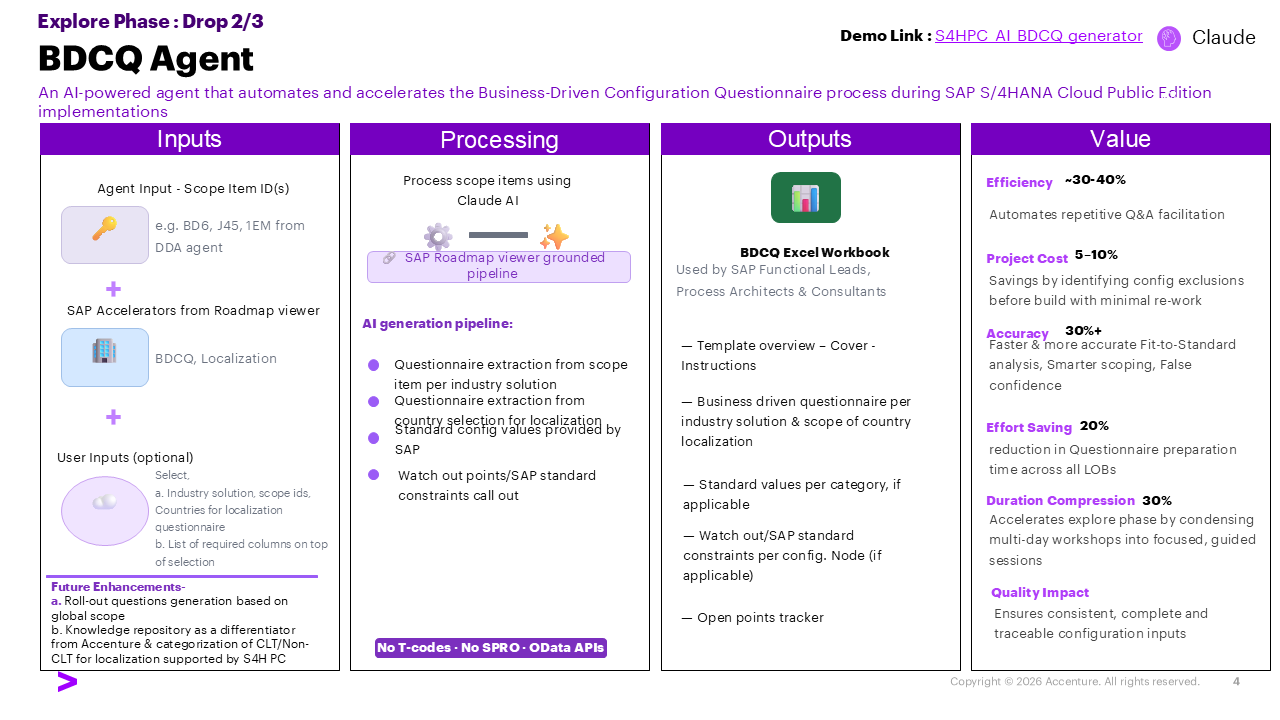
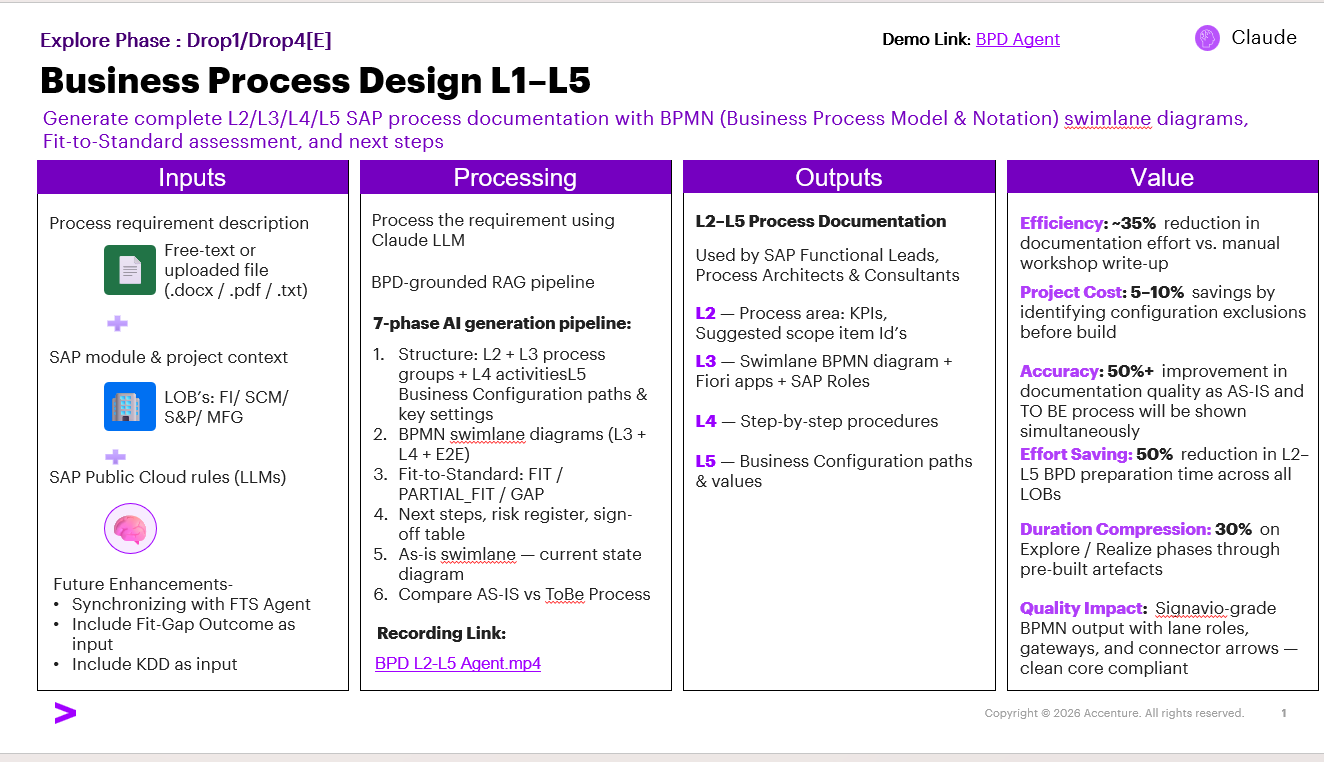
Updates

diff --git a/GrowActivAIte_Agent_FAQ.html b/GrowActivAIte_Agent_FAQ.html
@@ -420,9 +420,6 @@
     <a class="toc-link" href="#agent-08">
       <span class="toc-num">8</span>Functional Design Document Phase 1
     </a>
-    <a class="toc-link" href="#agent-09">
-      <span class="toc-num">9</span>KDD &amp; BDCQ User Guide – Explore Phase Accelerator
-    </a>
     <a class="toc-link" href="#agent-10">
       <span class="toc-num">10</span>Functional Design Document – Phase 2 (Form FD Generator)
     </a>
@@ -1582,379 +1579,6 @@
   </div><!-- /#agent-08 -->
 
   <!-- AGENT 9: KDD & BDCQ USER GUIDE -->
-  <div class="agent-card" id="agent-09" style="margin-top:24px; border-radius:12px;">
-    <div class="agent-header">
-      <div class="agent-icon">🔍</div>
-      <div class="agent-header-text">
-        <div class="agent-number">Agent 09</div>
-        <div class="agent-name">KDD &amp; BDCQ User Guide – SAP S/4HANA Cloud PE Explore Phase Accelerator</div>
-        <div class="agent-tags">
-          <span class="tag tag-phase">Explore</span>
-          <span class="tag tag-type">KDD Generation</span>
-          <span class="tag tag-group">Solution Confirmation Agent</span>
-        </div>
-      </div>
-    </div>
-    <div class="agent-body">
-      <div class="faq-list">
-
-        <p style="margin:16px 0 8px; font-weight:700; font-size:0.8rem; color:#4F46E5; text-transform:uppercase; letter-spacing:0.07em; border-bottom:1px solid #E0E7FF; padding-bottom:4px;">Getting Started</p>
-
-        <details open>
-          <summary><span class="q-label">Q1</span>Do I need to pay for anything?</summary>
-          <div class="answer">
-            <p>You need a <strong>Claude subscription</strong> (claude.ai — any paid plan). The tool uses your existing subscription with no extra charges per use and no API key required. Node.js is free. The tool itself is free.</p>
-          </div>
-        </details>
-
-        <details>
-          <summary><span class="q-label">Q2</span>What exactly do I need to install before I can use this?</summary>
-          <div class="answer">
-            <p>Three things, in this order:</p>
-            <ol>
-              <li><strong>Node.js</strong> (LTS) — from nodejs.org. One-time install.</li>
-              <li><strong>Claude CLI</strong> — from claude.ai/code. One-time install. Sign in once when prompted.</li>
-              <li><strong>The tool itself</strong> — unzip, run <code>SETUP.bat</code> once, then <code>START.bat</code> every time you use it.</li>
-              <li><strong>SAP Deck Agent Chrome extension</strong> — only needed to download SAP data files. Load it once in Chrome.</li>
-            </ol>
-          </div>
-        </details>
-
-        <details>
-          <summary><span class="q-label">Q3</span>How do I verify everything is installed correctly?</summary>
-          <div class="answer">
-            <p>Open a new terminal and run these two commands:</p>
-            <p><code>node --version</code> → should return something like <code>v20.x.x</code></p>
-            <p><code>claude --version</code> → should return something like <code>2.x.x (Claude Code)</code></p>
-            <p>If both work, run <code>START.bat</code> and open <code>http://localhost:8321</code> in your browser.</p>
-          </div>
-        </details>
-
-        <details>
-          <summary><span class="q-label">Q4</span>Can I install this on my Accenture laptop?</summary>
-          <div class="answer">
-            <p>Yes. It runs entirely locally, installs nothing to the Windows registry, and doesn't require admin rights beyond the initial Node.js and Claude CLI installers. If IT restrictions block those installers, ask your project lead to raise a request.</p>
-          </div>
-        </details>
-
-        <details>
-          <summary><span class="q-label">Q5</span>Do I need to run SETUP.bat every time?</summary>
-          <div class="answer">
-            <p>No — only once after first unzip, and once again after any update. <code>SETUP.bat</code> installs the app's libraries. After that, just use <code>START.bat</code>.</p>
-          </div>
-        </details>
-
-        <details>
-          <summary><span class="q-label">Q6</span>Can multiple people on the project use this?</summary>
-          <div class="answer">
-            <p>Currently each person installs and runs their own copy locally. The tool is designed for one user per machine. A shared hosted version is on the roadmap.</p>
-          </div>
-        </details>
-
-        <p style="margin:20px 0 8px; font-weight:700; font-size:0.8rem; color:#4F46E5; text-transform:uppercase; letter-spacing:0.07em; border-bottom:1px solid #E0E7FF; padding-bottom:4px;">Chrome Extension (SAP Deck Agent)</p>
-
-        <details>
-          <summary><span class="q-label">Q7</span>Which browser does the Chrome extension work in?</summary>
-          <div class="answer">
-            <p>Chrome only. The web app itself at <code>localhost:8321</code> works in any modern browser, but the SAP Deck Agent extension that downloads SAP data files requires Chrome.</p>
-          </div>
-        </details>
-
-        <details>
-          <summary><span class="q-label">Q8</span>The extension opened an SAP login tab and the file wasn't saved.</summary>
-          <div class="answer">
-            <p>This is an SAP SSO session refresh. The current version handles this automatically — it waits for the login tab to close, then retries the download. If it still stalls after the tab closes: confirm you are logged into SAP, then click the save button again. Do not close the extension popup while waiting.</p>
-          </div>
-        </details>
-
-        <details>
-          <summary><span class="q-label">Q9</span>I clicked Save and the folder picker appeared, but the file still didn't save.</summary>
-          <div class="answer">
-            <p>Make sure you selected the <strong>tool folder</strong> (the one containing <code>server.js</code> and <code>START.bat</code>) when the folder picker opened. The extension writes directly into that folder. If you selected the wrong folder, click save again and pick the correct one.</p>
-          </div>
-        </details>
-
-        <details>
-          <summary><span class="q-label">Q10</span>The extension says "Folder access expired."</summary>
-          <div class="answer">
-            <p>Browser permissions for folder access time out between sessions. Click the save button again — the extension will re-open the folder picker. This is normal browser security behaviour.</p>
-          </div>
-        </details>
-
-        <details>
-          <summary><span class="q-label">Q11</span>The extension scanned the page but found no files.</summary>
-          <div class="answer">
-            <p>Three things to check:</p>
-            <ol>
-              <li>You are on the correct SAP page — Roadmap Viewer for BDCQ, Process Navigator for scope catalog.</li>
-              <li><strong>Developer mode</strong> is turned on in <code>chrome://extensions</code>.</li>
-              <li>The file list is visible and fully loaded on screen — scroll down so items render, then click <strong>Scan Again</strong>.</li>
-            </ol>
-          </div>
-        </details>
-
-        <details>
-          <summary><span class="q-label">Q12</span>How often do I need to re-download SAP data?</summary>
-          <div class="answer">
-            <p><strong>BDCQ questions:</strong> once per project — they don't change between sessions.</p>
-            <p><strong>Scope catalog:</strong> every 6 months, when SAP releases a new version (February and August). The app will warn you if your catalog is outdated.</p>
-          </div>
-        </details>
-
-        <p style="margin:20px 0 8px; font-weight:700; font-size:0.8rem; color:#4F46E5; text-transform:uppercase; letter-spacing:0.07em; border-bottom:1px solid #E0E7FF; padding-bottom:4px;">BDCQ Enrichment</p>
-
-        <details>
-          <summary><span class="q-label">Q13</span>What does "enrichment" actually add to the BDCQ questions?</summary>
-          <div class="answer">
-            <p>Three lenses applied to every question:</p>
-            <ul>
-              <li><strong>Country localisation</strong> — flags statutory/mandatory items for the client's country (tax, payroll, banking regulations). Mandatory items come pre-answered.</li>
-              <li><strong>Industry context</strong> — adds sub-questions and considerations specific to the client's sector (Manufacturing, Retail, Pharma etc.).</li>
-              <li><strong>Cloud PE constraints</strong> — highlights where standard SAP configuration is fixed and where BTP extensions are the only path.</li>
-            </ul>
-          </div>
-        </details>
-
-        <details>
-          <summary><span class="q-label">Q14</span>Can I enrich just some domains, not all of them?</summary>
-          <div class="answer">
-            <p>Yes. On the BDCQ screen you can select specific domains before enriching. You don't have to process the entire questionnaire at once.</p>
-          </div>
-        </details>
-
-        <details>
-          <summary><span class="q-label">Q15</span>What do the "mandatory" flags mean in the output?</summary>
-          <div class="answer">
-            <p>A question marked mandatory has a statutory requirement in the client's country that must be answered in a specific way — for example India GST e-invoicing or Germany XRechnung compliance. These are pre-answered based on localisation rules so you don't have to research them during the workshop.</p>
-          </div>
-        </details>
-
-        <details>
-          <summary><span class="q-label">Q16</span>Can I run BDCQ enrichment for multiple countries on one project?</summary>
-          <div class="answer">
-            <p>Yes. Select all relevant countries before generating — the enrichment runs in one pass and adds country-specific rows (tagged "Local – India", "Local – Germany" etc.) for each selected country. Useful for rollout projects covering multiple regions.</p>
-          </div>
-        </details>
-
-        <p style="margin:20px 0 8px; font-weight:700; font-size:0.8rem; color:#4F46E5; text-transform:uppercase; letter-spacing:0.07em; border-bottom:1px solid #E0E7FF; padding-bottom:4px;">KDD Generation</p>
-
-        <details>
-          <summary><span class="q-label">Q17</span>How long does KDD generation take?</summary>
-          <div class="answer">
-            <p>Roughly <strong>60–105 seconds per scope item</strong> in AI mode. Up to 3 scope items run in parallel, so larger sets don't scale linearly. Cache hits (scope items generated before) complete in <strong>under 5 seconds</strong> with no AI call at all. You can monitor live progress in the status panel.</p>
-          </div>
-        </details>
-
-        <details>
-          <summary><span class="q-label">Q18</span>What is the difference between Fast mode and AI mode?</summary>
-          <div class="answer">
-            <p><strong>Fast mode</strong> — returns cached results instantly. No Claude call is made, no tokens used. Use this when you have already generated for these scope items and want the Excel quickly.</p>
-            <p><strong>AI mode</strong> — runs the full 5-agent pipeline (Cache → Library → Context → Generation → Validation). Use this for first-time generation or when you want fresh, up-to-date output.</p>
-          </div>
-        </details>
-
-        <details>
-          <summary><span class="q-label">Q19</span>How many scope items should I do in one run?</summary>
-          <div class="answer">
-            <p>5–10 is comfortable. You can do more, but very large sets (20+) take longer and are harder to review in one sitting. Run scope items in batches and combine the outputs in the KDD editor.</p>
-          </div>
-        </details>
-
-        <details>
-          <summary><span class="q-label">Q20</span>Generation finished but I got 0 KDDs for one scope item.</summary>
-          <div class="answer">
-            <p>Claude's output failed the validation check twice (the tool retries automatically once). Most common causes are an unusually short process description in the catalog or a timeout. Use the <strong>Retry</strong> button on that item in the KDD editor to regenerate it individually.</p>
-          </div>
-        </details>
-
-        <details>
-          <summary><span class="q-label">Q21</span>Can I stop a generation halfway through?</summary>
-          <div class="answer">
-            <p>Closing the browser tab stops the display, but the server continues generating in the background. To cancel completely, close the <code>START.bat</code> console window. Partially completed items are cached — restarting and generating again will only re-run the incomplete ones.</p>
-          </div>
-        </details>
-
-        <details>
-          <summary><span class="q-label">Q22</span>Can I regenerate just one question without redoing everything?</summary>
-          <div class="answer">
-            <p>Yes. In the KDD editor, click the <strong>retry icon</strong> on any individual row to regenerate that specific question. The rest of the log is untouched.</p>
-          </div>
-        </details>
-
-        <details>
-          <summary><span class="q-label">Q23</span>The tool keeps generating on-premise terms like ABAP or SAP GUI.</summary>
-          <div class="answer">
-            <p>This shouldn't happen — the Validation Agent automatically catches and replaces 25 forbidden on-premise terms. If you do see them in output, use the <strong>AI Suggest</strong> feature on that row for a Cloud PE-compliant replacement, or edit manually. If this happens frequently, let the tool owner know — the validation rules may need updating.</p>
-          </div>
-        </details>
-
-        <p style="margin:20px 0 8px; font-weight:700; font-size:0.8rem; color:#4F46E5; text-transform:uppercase; letter-spacing:0.07em; border-bottom:1px solid #E0E7FF; padding-bottom:4px;">Output &amp; Files</p>
-
-        <details>
-          <summary><span class="q-label">Q24</span>Where does the Excel file go?</summary>
-          <div class="answer">
-            <p>All output files are saved to the <code>output\</code> folder inside the tool folder, and are also downloadable from the Output Files page in the app.</p>
-            <p>Filename format: <code>Accenture_KDD_&lt;Client&gt;_&lt;Project&gt;_&lt;Date&gt;.xlsx</code></p>
-          </div>
-        </details>
-
-        <details>
-          <summary><span class="q-label">Q25</span>Can I re-export to Excel without regenerating?</summary>
-          <div class="answer">
-            <p>Yes. In the KDD editor, use the <strong>Export Excel</strong> button at any time. It exports the current state of the editor — including any manual edits — without calling Claude again.</p>
-          </div>
-        </details>
-
-        <details>
-          <summary><span class="q-label">Q26</span>What are the 5 sheets in the Excel?</summary>
-          <div class="answer">
-            <ol>
-              <li><strong>Cover</strong> — client, project, date, scope count.</li>
-              <li><strong>Instructions</strong> — column guide and Cloud PE disclaimer.</li>
-              <li><strong>Scope Overview</strong> — one row per scope item with process summary.</li>
-              <li><strong>KDD Master Log</strong> — all KDD rows with every field, RAG status, RICEF classification, and workshop outcome columns.</li>
-              <li><strong>Summary</strong> — aggregated counts (Fit/Gap/Partial, RAG breakdown, complexity, RICEF types).</li>
-            </ol>
-          </div>
-        </details>
-
-        <details>
-          <summary><span class="q-label">Q27</span>What do the RAG colours mean?</summary>
-          <div class="answer">
-            <ul>
-              <li><strong>🟢 Green – Fit:</strong> Standard SAP configuration covers the requirement. No extension needed.</li>
-              <li><strong>🟡 Amber – Partial Fit:</strong> Some configuration or minor extension needed.</li>
-              <li><strong>🔴 Red – Gap:</strong> A gap requiring extension or a design decision with significant delivery impact.</li>
-            </ul>
-          </div>
-        </details>
-
-        <details>
-          <summary><span class="q-label">Q28</span>Can I export to PowerPoint?</summary>
-          <div class="answer">
-            <p>Yes — use the <strong>Export PPT</strong> button in the KDD editor. It generates a slide deck from the KDD log suitable for a workshop or steering committee presentation.</p>
-          </div>
-        </details>
-
-        <details>
-          <summary><span class="q-label">Q29</span>My Excel export failed or is empty.</summary>
-          <div class="answer">
-            <p>Make sure <code>SETUP.bat</code> completed successfully — it installs the Excel builder. Do not delete the <code>output\</code> folder. If the problem persists, check the <code>START.bat</code> console window for an error message and share it with the tool owner.</p>
-          </div>
-        </details>
-
-        <p style="margin:20px 0 8px; font-weight:700; font-size:0.8rem; color:#4F46E5; text-transform:uppercase; letter-spacing:0.07em; border-bottom:1px solid #E0E7FF; padding-bottom:4px;">Performance &amp; Quality</p>
-
-        <details>
-          <summary><span class="q-label">Q30</span>How accurate is the generated output? Do I need to review it?</summary>
-          <div class="answer">
-            <p>Always review before using in a workshop or sharing with a client. The tool generates a strong first draft grounded in the SAP process catalog and Cloud PE rules — but it does not know your specific client requirements. Treat the output as an intelligent starting point, not a finished deliverable.</p>
-          </div>
-        </details>
-
-        <details>
-          <summary><span class="q-label">Q31</span>Generation is very slow or timed out.</summary>
-          <div class="answer">
-            <p>Check your internet connection first. If the connection is fine, the Claude service may be under load — wait a few minutes and retry. Individual scope items that time out will be flagged; use the Retry button on those items.</p>
-          </div>
-        </details>
-
-        <details>
-          <summary><span class="q-label">Q32</span>Does the tool learn from my corrections?</summary>
-          <div class="answer">
-            <p>Yes. When you mark a decision as approved in the KDD editor, it is saved to the decisions library. The next time you generate KDDs for the same scope item on any project, the tool surfaces those past decisions as context so Claude produces more consistent, grounded output over time.</p>
-          </div>
-        </details>
-
-        <details>
-          <summary><span class="q-label">Q33</span>Can I use the output directly in a client workshop?</summary>
-          <div class="answer">
-            <p>The Excel and PPT are formatted for professional use, but always review and apply your own judgement before presenting to a client. Adjust scope, complexity ratings, and decision options to match your specific engagement context.</p>
-          </div>
-        </details>
-
-        <p style="margin:20px 0 8px; font-weight:700; font-size:0.8rem; color:#4F46E5; text-transform:uppercase; letter-spacing:0.07em; border-bottom:1px solid #E0E7FF; padding-bottom:4px;">Data &amp; Security</p>
-
-        <details>
-          <summary><span class="q-label">Q34</span>Does my client's data get sent anywhere?</summary>
-          <div class="answer">
-            <p>The only external call is to <strong>Claude</strong> (via the Claude CLI) for AI generation — the same as any Claude Code session. No data is sent to any other server. The Chrome extension communicates only with SAP domains. Everything else stays on your laptop.</p>
-          </div>
-        </details>
-
-        <details>
-          <summary><span class="q-label">Q35</span>Where is my data stored?</summary>
-          <div class="answer">
-            <p>Entirely in the tool folder on your disk:</p>
-            <ul>
-              <li><code>bdcq\</code> — BDCQ question files</li>
-              <li><code>output\</code> — generated Excel and PPT files</li>
-              <li><code>decisions\</code> — saved approved decisions (the learning memory)</li>
-              <li><code>scope-catalog.json</code> — SAP process catalog</li>
-            </ul>
-            <p>Nothing is written to the cloud by the tool itself.</p>
-          </div>
-        </details>
-
-        <details>
-          <summary><span class="q-label">Q36</span>Can someone else on the network access my running instance?</summary>
-          <div class="answer">
-            <p>No. The app binds to <code>127.0.0.1</code> (loopback only). It is not accessible from any other machine on your network — office, VPN, or client site.</p>
-          </div>
-        </details>
-
-        <details>
-          <summary><span class="q-label">Q37</span>Is it safe to use on a client engagement?</summary>
-          <div class="answer">
-            <p>Follow your engagement's data-handling rules for anything you input and export. When processing client-confidential material, check with your project lead first. The tool itself does not log or transmit data beyond the Claude call needed for generation.</p>
-          </div>
-        </details>
-
-        <p style="margin:20px 0 8px; font-weight:700; font-size:0.8rem; color:#4F46E5; text-transform:uppercase; letter-spacing:0.07em; border-bottom:1px solid #E0E7FF; padding-bottom:4px;">Common Errors</p>
-
-        <details>
-          <summary><span class="q-label">Q38</span>"Claude CLI not installed" or "Claude CLI not found"</summary>
-          <div class="answer">
-            <ol>
-              <li>Install Claude CLI from claude.ai/code if you haven't already.</li>
-              <li>Open a <strong>new</strong> terminal and run <code>claude --version</code>.</li>
-              <li>If that works but the app still shows the error, close the <code>START.bat</code> console and reopen it — it needs to restart to pick up the updated PATH.</li>
-              <li>If Claude is installed in a non-standard location, set the environment variable <code>CLAUDE_PATH</code> to the full path of <code>claude.exe</code> before running <code>START.bat</code>.</li>
-            </ol>
-          </div>
-        </details>
-
-        <details>
-          <summary><span class="q-label">Q39</span>"Port 8321 is already in use"</summary>
-          <div class="answer">
-            <p>Another copy of the app is already running. Either use that instance by opening <code>http://localhost:8321</code>, or close the other console window and start again.</p>
-          </div>
-        </details>
-
-        <details>
-          <summary><span class="q-label">Q40</span>"npm install failed" in SETUP.bat</summary>
-          <div class="answer">
-            <p>Node.js is not installed or not on your PATH. Install LTS from nodejs.org, open a fresh terminal, confirm <code>node --version</code> returns a version number, then re-run <code>SETUP.bat</code>.</p>
-          </div>
-        </details>
-
-        <details>
-          <summary><span class="q-label">Q41</span>Page loads but shows a blank screen or spinner that never finishes.</summary>
-          <div class="answer">
-            <p>The server is still starting up. Wait 5–10 seconds and refresh the browser. If it still doesn't load, check the <code>START.bat</code> console window for errors.</p>
-          </div>
-        </details>
-
-        <details>
-          <summary><span class="q-label">Q42</span>"No WRICEF items" when exporting the WRICEF inventory.</summary>
-          <div class="answer">
-            <p>WRICEF items only appear for rows classified as <strong>Gap</strong> or <strong>Partial</strong> with a WRICEF type assigned. Go to the KDD editor, find your Gap rows, and set the <strong>WRICEF Type</strong> column before exporting.</p>
-          </div>
-        </details>
-
-      </div>
-    </div>
-  </div><!-- /#agent-09 -->
 
   <!-- AGENT 10: FUNCTIONAL DESIGN PHASE 2 -->
   <div class="agent-card" id="agent-10" style="margin-top:24px; border-radius:12px;">
